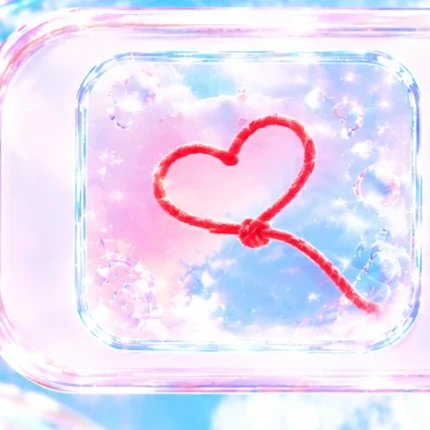
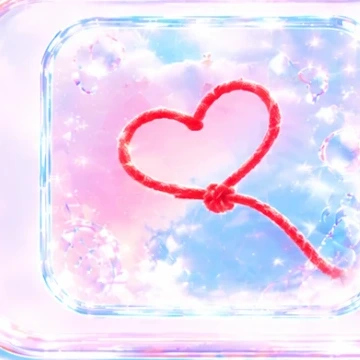
붉은 실 만들기 아이콘 블링블링/입체감 강화
과일 테마 아이콘을 더 크게(48px→68px) 키우고 흰색 링+은은한 핑크
글로우를 더해 유리 반짝임이 잘 보이도록 함. 크롭도 카드 안쪽으로
더 타이트하게 잡아 하트와 반짝이 디테일이 작은 배너 안에서도 잘
드러나게 함.

Claude-Session: https://claude.ai/code/session_01TCesXYeXDMeNNxFeTYU3Ut

diff --git a/css/style.css b/css/style.css
@@ -228,10 +228,10 @@ button {
 .redthread-banner {
   display: flex;
   align-items: center;
-  gap: 12px;
+  gap: 14px;
   margin-top: 14px;
-  padding: 14px 16px;
-  border-radius: 20px;
+  padding: 12px 16px;
+  border-radius: 22px;
   background: linear-gradient(135deg, #ffe3e9, #fff0e6);
   border: 2px solid var(--pastel-pink-deep);
   box-shadow: 0 6px 14px rgba(255, 120, 150, 0.18);
@@ -244,12 +244,13 @@ button {
 }
 
 .redthread-icon {
-  width: 48px;
-  height: 48px;
-  border-radius: 14px;
+  width: 68px;
+  height: 68px;
+  border-radius: 18px;
   object-fit: cover;
   flex-shrink: 0;
-  border: 2px solid rgba(255, 255, 255, 0.8);
+  border: 2px solid rgba(255, 255, 255, 0.9);
+  box-shadow: 0 0 0 3px rgba(255, 255, 255, 0.5), 0 4px 12px rgba(255, 100, 140, 0.35);
 }
 
 .redthread-text {
@@ -259,7 +260,7 @@ button {
 }
 
 .redthread-title {
-  font-size: 15px;
+  font-size: 16px;
   font-weight: 700;
 }
 

diff --git a/index.html b/index.html
@@ -10,7 +10,7 @@
   <link href="https://fonts.googleapis.com/css2?family=Jua&display=swap" rel="stylesheet" />
   <!-- ?v=N 캐시 무효화용 버전 번호. css/js를 바꿔서 배포할 때마다 숫자를 올려주세요
        (GitHub Pages/모바일 브라우저가 옛날 파일을 계속 캐시해서 안 보이는 문제 방지). -->
-  <link rel="stylesheet" href="./css/style.css?v=14" />
+  <link rel="stylesheet" href="./css/style.css?v=15" />
 </head>
 <body>
   <div id="app"></div>
